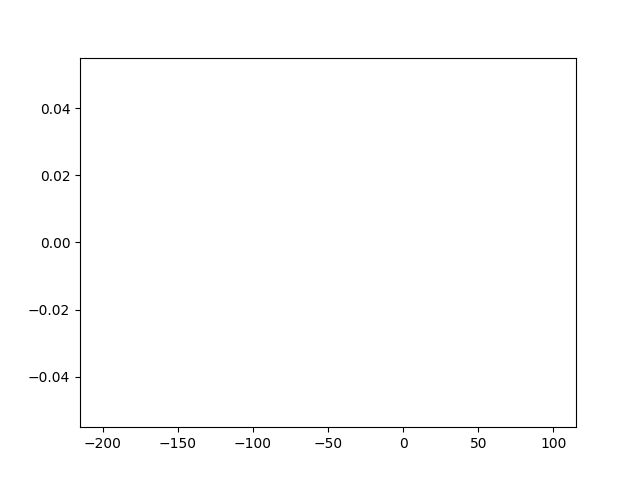
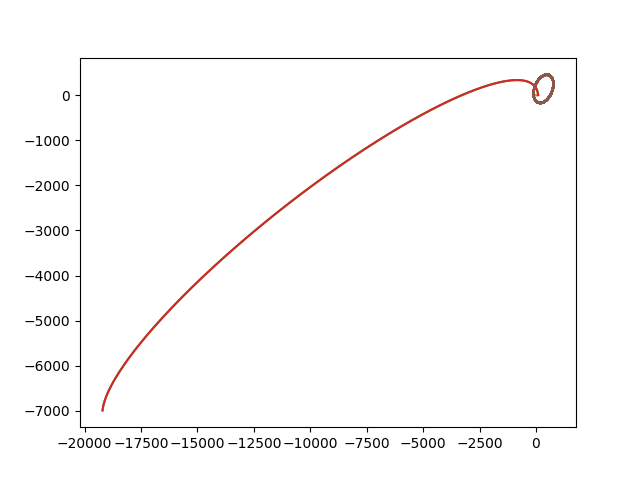
No gravitational comparison of bodies with themself

diff --git a/src/datatypes.rs b/src/datatypes.rs
@@ -3,7 +3,7 @@ use matplotrust::*;
 use physical_constants::NEWTONIAN_CONSTANT_OF_GRAVITATION as G;
 use std::ops::*;
 
-#[derive(Copy, Clone)]
+#[derive(Copy, Clone, Debug)]
 pub struct Body {
 	pub position: Vector3<f64>,
 	pub velocity: Vector3<f64>,
@@ -33,21 +33,10 @@ impl Body {
 				.mul(force)
 				.div(self.mass),
 		);
-		//println!("{:#?}", self.velocity);
 	}
 
 	pub fn update_position(&mut self) {
 		self.position = self.position.add(self.velocity);
-	}
-
-	pub fn print(&self) {
-		println!(
-			"X-position {}, Y-position {}, Mass {}	Velocity {}",
-			self.position.x,
-			self.position.y,
-			self.mass,
-			self.position.distance(self.velocity)
-		)
 	}
 }
 
@@ -62,11 +51,12 @@ impl System {
 
 	pub fn update(&mut self) {
 		let secondary_bodies = self.bodies.clone();
-		for primary_body in &mut self.bodies {			
-			for secondary_body in &secondary_bodies {
-				println!("{:#?}, {:#?}", primary_body.position, primary_body.velocity);
-				primary_body.update_velocity(*secondary_body);
-				//primary_body.update_position();
+		for (i, primary_body) in self.bodies.iter_mut().enumerate() {
+			for (j, secondary_body) in secondary_bodies.iter().enumerate() {
+				if i != j {
+					primary_body.update_velocity(*secondary_body);
+					primary_body.update_position();
+				}
 			}
 		}
 	}
@@ -86,12 +76,12 @@ impl System {
 			let mut values: [Vec<f64>; 2] = [Vec::new(), Vec::new()];
 			for cycle in &mut cycle_values {
 				values[0].push(cycle[i].x);
-				values[1].push(cycle[i].z);
+				values[1].push(cycle[i].y);
 			}
 			lp = line_plot::<f64, f64>(values[0].clone(), values[1].clone(), None);
 			figure.add_plot(lp.clone());
 			figure.add_plot(lp.clone());
 		}
-		print!("{:#?}", figure.save("./fig.png", None));
+		figure.save("./fig.png", None);
 	}
 }

diff --git a/src/main.rs b/src/main.rs
@@ -56,5 +56,5 @@ fn main() {
 	];
 
 	let mut system = datatypes::System::new(configurations[2].clone());
-	system.plot(1);
+	system.plot(100000);
 }
